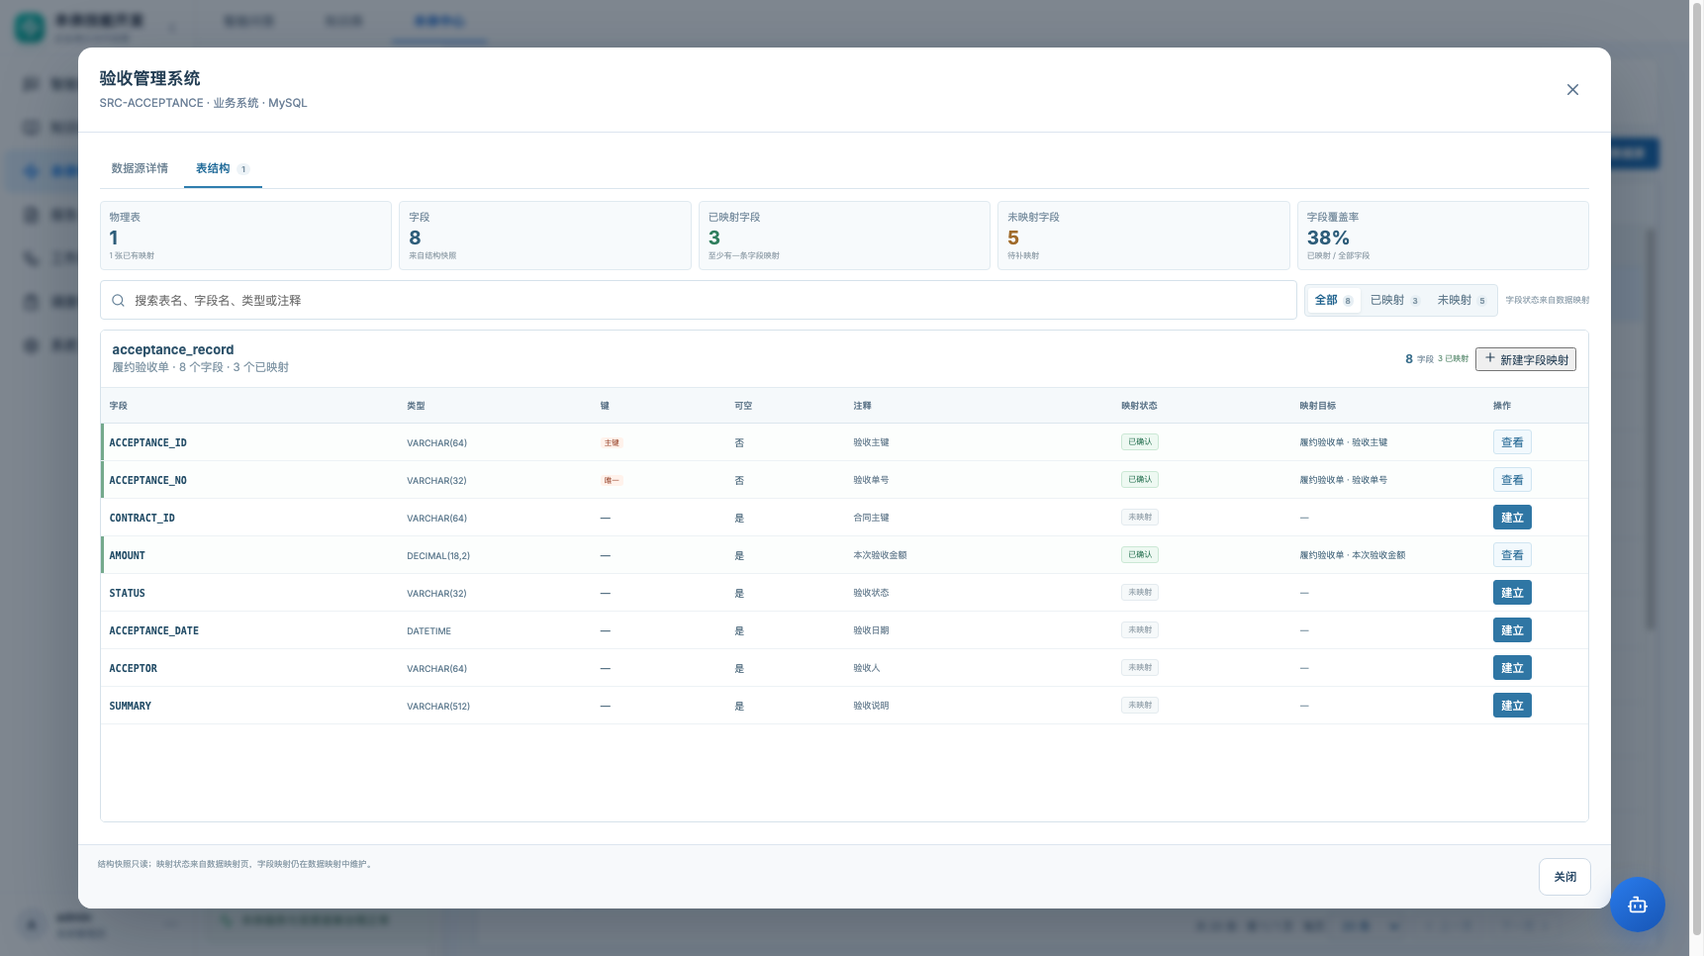
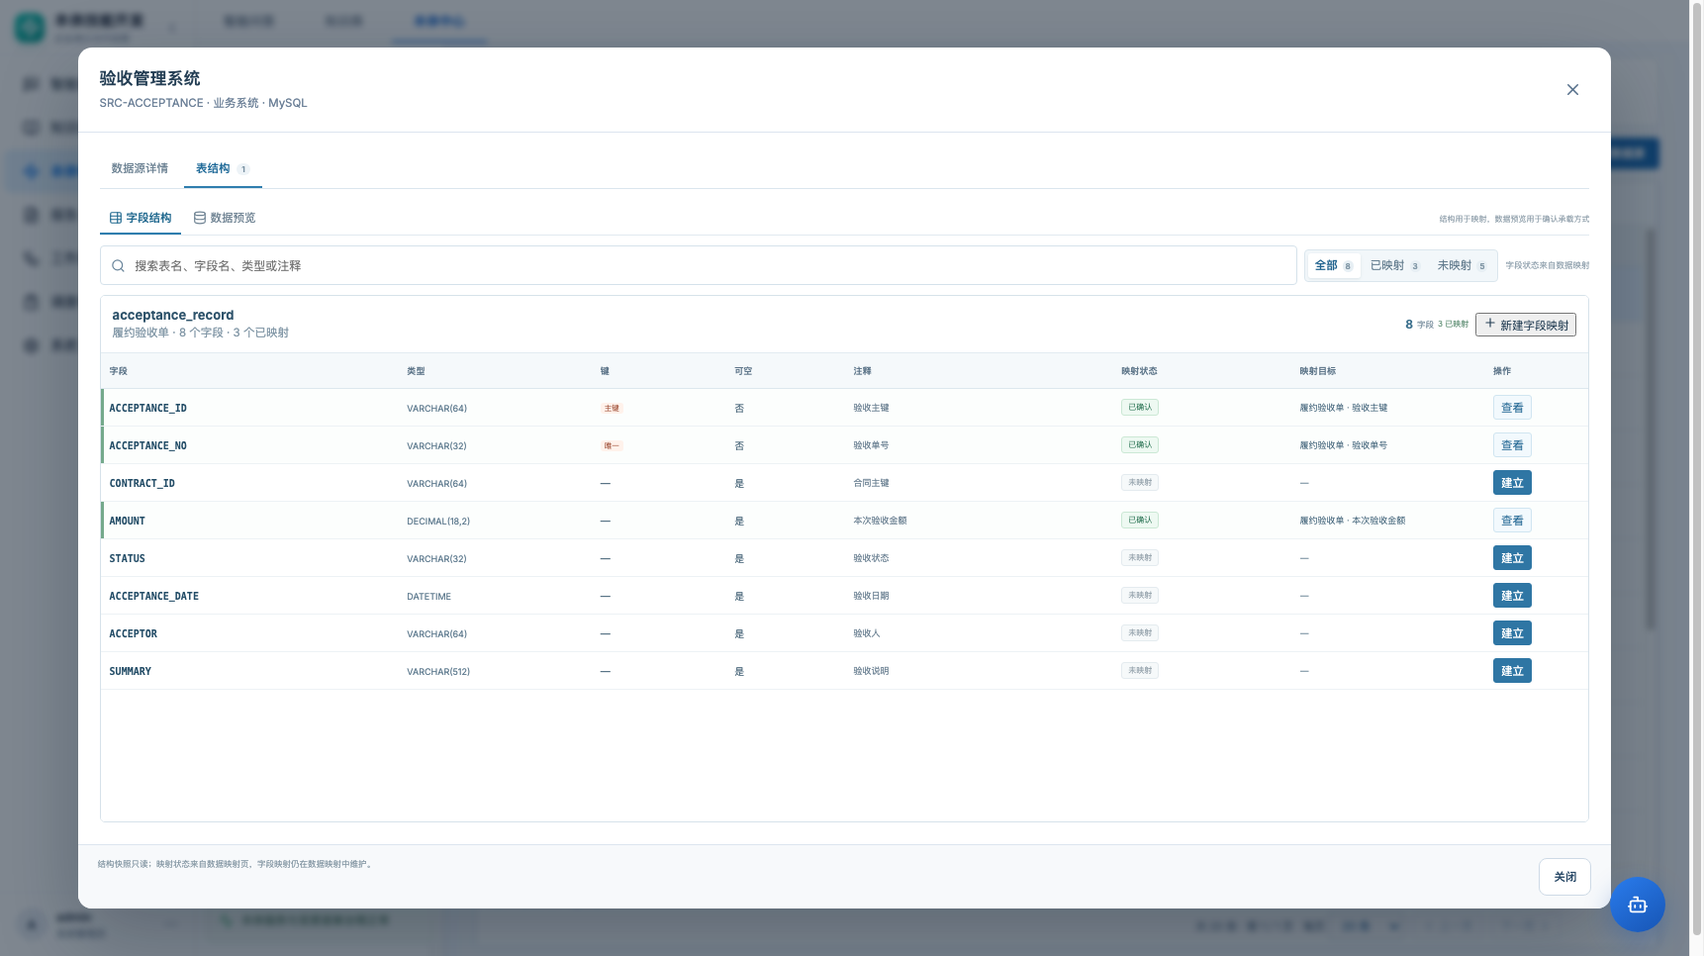
feat: add read-only table data preview and simplify schema tree

diff --git a/frontend/src/pages/DataMappingStudio.jsx b/frontend/src/pages/DataMappingStudio.jsx
@@ -1,6 +1,6 @@
 import { useEffect, useMemo, useRef, useState } from 'react';
 import { useLocation, useNavigate } from 'react-router-dom';
-import { ArrowRight, CheckCircle2, ChevronRight, Database, FileUp, HelpCircle, Network, Pencil, Plus, RefreshCw, Search, TableProperties, Trash2, X } from 'lucide-react';
+import { AlertTriangle, ArrowRight, CheckCircle2, ChevronRight, Database, FileUp, HelpCircle, LoaderCircle, Network, Pencil, Plus, RefreshCw, Search, TableProperties, Trash2, X } from 'lucide-react';
 import { api, formatTime } from '../api';
 import { statusLabel } from '../labels';
 import Modal from '../components/Modal';
@@ -87,6 +87,19 @@ function SchemaBrowser({ tables, query, onQueryChange, onPick, selectedTable = '
 }
 
 
+function SchemaDataPreview({ table, preview, busy, error, onRefresh }) {
+  const format = (value) => value === null || value === undefined || value === '' ? '—' : String(value);
+  return <div className="schema-data-view">
+    <header><div><h3>{table?.name || '数据预览'}</h3><p>只读预览 · 最多 20 行 · 用于确认表结构如何承载数据</p></div><button type="button" className="schema-data-refresh" onClick={onRefresh} disabled={busy || !table}><RefreshCw size={14} /> 刷新</button></header>
+    {busy ? <div className="schema-data-state"><LoaderCircle className="spin" size={20} /><strong>正在读取样例数据…</strong></div>
+      : error ? <div className="schema-data-state error"><AlertTriangle size={20} /><strong>暂时无法预览数据</strong><p>{error}</p><small>需要先建立可读连接并测试通过；本视图不会读取或修改业务数据。</small></div>
+        : !preview ? <div className="schema-data-state"><TableProperties size={22} /><strong>还没有预览数据</strong><p>点击刷新读取该表前 20 行。</p></div>
+          : !preview.rows?.length ? <div className="schema-data-state"><TableProperties size={22} /><strong>表里暂无数据</strong><p>结构已采集，但当前表返回 0 行。</p></div>
+            : <div className="schema-data-table-wrap"><table className="schema-data-table"><thead><tr>{preview.columns.map((column) => <th key={column}>{column}</th>)}</tr></thead><tbody>{preview.rows.map((row, index) => <tr key={index}>{row.map((value, cellIndex) => <td key={cellIndex} title={format(value)}>{format(value)}</td>)}</tr>)}</tbody></table></div>}
+    {preview && <footer className="schema-data-footnote">显示 {preview.rows?.length || 0} 行{preview.truncated ? '（已截断）' : ''} · 预览不导出、不写回；完整数据浏览后续接入独立数据查询页。</footer>}
+  </div>;
+}
+
 function SourceDetailContent({ source, tables, totalFields, mappedFields, subjectName, capturedAt, busy, remoteTables, selectedTables, setSelectedTables, onTest, onBrowse, onImport, onViewMappings, onOpenSchema, onCaptureSchema, onEdit, onDelete }) {
   const coverage = totalFields ? Math.round((mappedFields / totalFields) * 100) : 0;
   const isMysql = source.driver === 'mysql';
@@ -144,10 +157,14 @@ function SourceDetailContent({ source, tables, totalFields, mappedFields, subjec
   </div>;
 }
 
-function SourceDetailModal({ source, tables, mappings, capturedAt, getOrigin, targetLabel, propertyLabel, statusLabel, onClose, onViewMapping, onCreateMapping, tab = 'schema', onTabChange, detailContent }) {
+function SourceDetailModal({ source, tables, mappings, capturedAt, getOrigin, targetLabel, propertyLabel, statusLabel, onClose, onViewMapping, onCreateMapping, onPreview, tab = 'schema', onTabChange, detailContent }) {
   const [query, setQuery] = useState('');
   const [mappingFilter, setMappingFilter] = useState('all');
   const [selectedTable, setSelectedTable] = useState(tables[0]?.name || '');
+  const [schemaView, setSchemaView] = useState('fields');
+  const [preview, setPreview] = useState(null);
+  const [previewBusy, setPreviewBusy] = useState(false);
+  const [previewError, setPreviewError] = useState('');
   const needle = query.trim().toLowerCase();
   const mappedIndex = useMemo(() => {
     const index = new Map();
@@ -172,6 +189,20 @@ function SourceDetailModal({ source, tables, mappings, capturedAt, getOrigin, ta
     || `${table.name} ${table.comment || ''}`.toLowerCase().includes(needle)
     || (table.columns || []).some((column) => `${column.name} ${column.comment || ''} ${column.column_type || column.data_type || ''}`.toLowerCase().includes(needle))), [tableRows, needle]);
   const activeTable = visibleTables.find((table) => table.name === selectedTable) || visibleTables[0] || null;
+  const loadPreview = async (table = activeTable) => {
+    if (!table || !onPreview) return;
+    setPreviewBusy(true); setPreviewError(''); setPreview(null);
+    try { setPreview(await onPreview(source, table.name, 20)); }
+    catch (cause) { setPreviewError(cause.message); }
+    finally { setPreviewBusy(false); }
+  };
+  const chooseTable = (name) => {
+    setSelectedTable(name);
+    if (schemaView === 'data') {
+      const table = tableRows.find((item) => item.name === name);
+      if (table) loadPreview(table);
+    }
+  };
   const fields = useMemo(() => {
     if (!activeTable) return [];
     return activeTable.columns.filter((column) => {
@@ -187,19 +218,13 @@ function SourceDetailModal({ source, tables, mappings, capturedAt, getOrigin, ta
     return tables.some((table) => table.name === tableName && (table.columns || []).some((column) => column.name === fieldName));
   }).length;
   const coverage = totalFields ? Math.round((mappedFields / totalFields) * 100) : 0;
-  const mappedTables = tableRows.filter((table) => table.mapped > 0).length;
   const statusClass = (value) => value === '已确认' ? 'confirmed' : value === '已停用' ? 'disabled' : 'pending';
   const fieldEntries = (table, column) => mappedIndex.get(`${table.name}\u0000${column.name}`) || [];
   return <Modal wide={tab === 'detail'} extraWide={tab === 'schema'} title={source.name} subtitle={`${source.code} · ${source.system_type || '未分类'} · ${driverLabel(source.driver)}`} onClose={onClose} footer={<><span className="schema-modal-footnote">{tab === 'detail' ? '数据源信息来自登记与结构采集；映射状态来自数据映射页。' : '结构快照只读；映射状态来自数据映射页，字段映射仍在数据映射中维护。'}</span><button type="button" className="btn secondary" onClick={onClose}>关闭</button></>}>
     <nav className="source-modal-tabs" aria-label="数据源详情与表结构"><button type="button" className={tab === 'detail' ? 'active' : ''} onClick={() => onTabChange('detail')}>数据源详情</button><button type="button" className={tab === 'schema' ? 'active' : ''} onClick={() => onTabChange('schema')}>表结构 <em>{tables.length}</em></button></nav>
     {tab === 'detail' ? detailContent : <div className="schema-browser-modal">
-      <div className="schema-browser-stats">
-        <div><small>物理表</small><b>{tables.length}</b><span>{mappedTables} 张已有映射</span></div>
-        <div><small>字段</small><b>{totalFields}</b><span>来自结构快照</span></div>
-        <div className="good"><small>已映射字段</small><b>{mappedFields}</b><span>至少有一条字段映射</span></div>
-        <div className="warn"><small>未映射字段</small><b>{Math.max(0, totalFields - mappedFields)}</b><span>待补映射</span></div>
-        <div><small>字段覆盖率</small><b>{coverage}%</b><span>已映射 / 全部字段</span></div>
-      </div>
+      <div className="schema-view-tabs"><button type="button" className={schemaView === 'fields' ? 'active' : ''} onClick={() => setSchemaView('fields')}><TableProperties size={14} /> 字段结构</button><button type="button" className={schemaView === 'data' ? 'active' : ''} onClick={() => { setSchemaView('data'); loadPreview(activeTable); }} disabled={!activeTable}><Database size={14} /> 数据预览</button><span>结构用于映射，数据预览用于确认承载方式</span></div>
+      {schemaView === 'fields' ? <>
       <div className="schema-browser-toolbar">
         <label className="mapping-schema-search"><Search size={15} /><input value={query} onChange={(event) => setQuery(event.target.value)} placeholder="搜索表名、字段名、类型或注释" aria-label="搜索表结构" /></label>
         <div className="schema-browser-segments" role="group" aria-label="映射状态筛选">
@@ -211,12 +236,7 @@ function SourceDetailModal({ source, tables, mappings, capturedAt, getOrigin, ta
       </div>
       <div className={`schema-browser-layout ${tables.length <= 1 ? 'single-table' : ''}`}>
         <aside className="schema-table-list">
-          <header><span>物理表</span><b>{visibleTables.length}</b></header>
-          <div className="schema-table-scroll">{visibleTables.map((table) => <button type="button" key={table.name} className={activeTable?.name === table.name ? 'active' : ''} onClick={() => setSelectedTable(table.name)}>
-            <span><strong>{table.name}</strong><small>{table.comment || '暂无表注释'}</small></span>
-            <em>{table.mapped}/{table.columns.length} 已映射</em>
-            <i><b style={{ width: `${table.columns.length ? Math.max(3, (table.mapped / table.columns.length) * 100) : 0}%` }} /></i>
-          </button>)}{!visibleTables.length && <p className="schema-empty">没有匹配的物理表。</p>}</div>
+          <div className="schema-table-scroll">{visibleTables.map((table) => <button type="button" key={table.name} className={activeTable?.name === table.name ? 'active' : ''} onClick={() => chooseTable(table.name)}><TableProperties size={13} /><span className="schema-table-name">{table.name}</span></button>)}{!visibleTables.length && <p className="schema-empty">没有匹配的物理表。</p>}</div>
         </aside>
         <section className="schema-field-panel">
           {!activeTable ? <div className="schema-empty"><TableProperties size={26} /><strong>没有匹配的表结构</strong><p>调整搜索关键词或映射状态筛选。</p></div> : <>
@@ -240,6 +260,7 @@ function SourceDetailModal({ source, tables, mappings, capturedAt, getOrigin, ta
           </>}
         </section>
       </div>
+      </> : <SchemaDataPreview table={activeTable} preview={preview} busy={previewBusy} error={previewError} onRefresh={() => loadPreview(activeTable)} />}
     </div>}
   </Modal>;
 }
@@ -529,6 +550,8 @@ export default function DataMappingStudio({ activeId, refreshOntologies, notify,
     if (item.driver !== 'mysql') { notify?.('该数据源类型暂不支持直连测试，请导入 CSV/JSON/SQL 结构字典。'); return; }
     await sourceAction('test-connection', item);
   };
+  const loadTablePreview = (source, table, limit = 20) => api(`/api/ontologies/${activeId}/enterprise/data-sources/${source.id}/preview-table?table=${encodeURIComponent(table)}&limit=${limit}`);
+
   const viewMappingFromSchema = (mapping) => {
     if (!mapping) return;
     setSchemaModalOpen(false);
@@ -761,6 +784,7 @@ export default function DataMappingStudio({ activeId, refreshOntologies, notify,
       statusLabel={mappingStatusLabel}
       tab={sourceModalTab}
       onTabChange={changeSourceTab}
+      onPreview={loadTablePreview}
       detailContent={<SourceDetailContent
         source={sourceForDetail}
         tables={detailTables}

diff --git a/frontend/src/styles.css b/frontend/src/styles.css
@@ -3711,3 +3711,49 @@ html, body, #root {
   .source-structure-metrics { width:70px; }
   .source-modal-tabs { margin-top:0; }
 }
+
+/* 表结构左栏：Navicat 风格，只显示物理表名 */
+.schema-browser-layout { grid-template-columns:190px minmax(0,1fr); }
+.schema-browser-layout.single-table { grid-template-columns:minmax(0,1fr); }
+.schema-table-list { background:#f7fafc; }
+.schema-table-scroll { padding:5px; }
+.schema-table-scroll button { min-height:31px; display:grid; grid-template-columns:16px minmax(0,1fr); align-items:center; gap:5px; padding:5px 7px; color:#536d80; background:transparent; border:1px solid transparent; border-radius:4px; text-align:left; cursor:pointer; }
+.schema-table-scroll button > svg { color:#7895a8; }
+.schema-table-scroll button:hover { background:#eef7fc; }
+.schema-table-scroll button.active { color:#1e5f87; background:#e8f4fb; border-color:#c5dfed; box-shadow:inset 2px 0 #2f7eae; }
+.schema-table-scroll button.active > svg { color:#2f7eae; }
+.schema-table-name { overflow:hidden; font-size:10.5px; font-weight:500; text-overflow:ellipsis; white-space:nowrap; }
+@media (max-width:1000px) {
+  .schema-browser-layout { grid-template-columns:180px minmax(0,1fr); }
+}
+
+/* 表结构：结构 / 数据预览子视图 */
+.schema-view-tabs { display:flex; align-items:center; gap:3px; padding:2px 0 0; border-bottom:1px solid #e1eaf0; }
+.schema-view-tabs button { min-height:32px; display:inline-flex; align-items:center; gap:4px; padding:0 9px; color:#6f8393; background:transparent; border:0; border-bottom:2px solid transparent; font-size:9px; cursor:pointer; }
+.schema-view-tabs button:hover { color:#2d6d94; }
+.schema-view-tabs button.active { color:#21698f; border-bottom-color:#2f7eae; font-weight:600; }
+.schema-view-tabs button:disabled { opacity:.45; cursor:not-allowed; }
+.schema-view-tabs > span { margin-left:auto; color:#96a5b0; font-size:8px; }
+.schema-data-view { flex:1; min-height:0; display:flex; flex-direction:column; overflow:hidden; border:1px solid #d7e3ec; border-radius:5px; background:#fff; }
+.schema-data-view > header { flex:none; min-height:50px; display:flex; align-items:center; justify-content:space-between; gap:8px; padding:7px 11px; border-bottom:1px solid #e2eaf1; }
+.schema-data-view h3 { margin:0; color:#355a72; font-size:12px; }
+.schema-data-view p { margin:3px 0 0; color:#8498a7; font-size:8.5px; }
+.schema-data-refresh { min-height:27px; display:inline-flex; align-items:center; gap:4px; padding:0 7px; color:#2a6a93; background:#f4faff; border:1px solid #cfe3ef; border-radius:4px; font-size:8.5px; cursor:pointer; }
+.schema-data-refresh:disabled { opacity:.45; cursor:not-allowed; }
+.schema-data-table-wrap { flex:1; min-height:0; overflow:auto; }
+.schema-data-table { min-width:100%; border-collapse:separate; border-spacing:0; white-space:nowrap; }
+.schema-data-table th { position:sticky; top:0; z-index:1; min-width:110px; padding:7px 9px; color:#5e788a; background:#f5f9fb; border-bottom:1px solid #dce7ee; border-right:1px solid #edf2f5; font-size:8.5px; font-weight:600; text-align:left; }
+.schema-data-table td { max-width:260px; overflow:hidden; padding:7px 9px; color:#4b687c; border-bottom:1px solid #edf2f5; border-right:1px solid #f0f4f6; font-size:9px; text-overflow:ellipsis; }
+.schema-data-table tr:nth-child(even) td { background:#fcfdfe; }
+.schema-data-table tr:hover td { background:#f4fafd; }
+.schema-data-state { flex:1; display:flex; flex-direction:column; align-items:center; justify-content:center; gap:6px; min-height:220px; padding:20px; color:#899ba8; text-align:center; }
+.schema-data-state strong { color:#536f83; font-size:10px; }
+.schema-data-state p { margin:0; color:#8195a4; font-size:9px; line-height:1.5; }
+.schema-data-state small { max-width:460px; color:#9ba9b3; font-size:8px; line-height:1.5; }
+.schema-data-state.error { color:#a56c45; background:#fffcf8; }
+.schema-data-state.error strong { color:#95633e; }
+.schema-data-footnote { flex:none; padding:6px 10px; color:#8b9ca8; background:#fbfdfe; border-top:1px solid #e5edf2; font-size:8px; }
+@media (max-width:700px) {
+  .schema-view-tabs > span { display:none; }
+  .schema-data-table th { min-width:90px; }
+}

diff --git a/backend/source_connections.py b/backend/source_connections.py
@@ -11,6 +11,8 @@ import hashlib
 import json
 import os
 import re
+from datetime import date, datetime
+from decimal import Decimal
 from pathlib import Path
 from typing import Any, Dict, Optional
 
@@ -221,6 +223,49 @@ def save_snapshot(ontology_id: str, source_id: str, schema: Dict[str, Any]) -> D
     conn.close()
     return {"id": snapshot_id, "captured_at": captured_at, "table_count": len(schema["tables"]), "schema": schema}
 
+
+
+def preview_table(ontology_id: str, source_id: str, table_name: str, limit: int = 20) -> Dict[str, Any]:
+    """Read-only sample of a physical table for design-time inspection.
+
+    The table name must exist in the latest captured snapshot. The query is
+    bounded, never accepts arbitrary SQL, and never writes to the source.
+    """
+    source = _source(ontology_id, source_id)
+    snapshot = latest_snapshot(ontology_id, source_id)
+    table = next((item for item in (snapshot or {}).get("schema", {}).get("tables", [])
+                  if item.get("name") == table_name), None)
+    if not table:
+        raise repo.ValidationError("表不存在于当前结构快照中，请先刷新结构")
+    if source.get("driver") != "mysql":
+        raise repo.ValidationError("当前仅支持 MySQL 数据预览；其他来源请先接入可读数据通道")
+    if source.get("connection_check", {}).get("status") != "passed":
+        raise repo.ValidationError("请先测试连接并确保连接通过，再预览数据")
+    bounded = max(1, min(int(limit or 20), 50))
+    safe_name = table["name"].replace("`", "``")
+    try:
+        with _connect(source) as remote:
+            with remote.cursor() as cursor:
+                cursor.execute(f"SELECT * FROM `{safe_name}` LIMIT %s", (bounded + 1,))
+                rows = cursor.fetchall()
+                columns = [item[0] for item in cursor.description] if cursor.description else []
+    except repo.ValidationError:
+        raise
+    except Exception as exc:
+        raise repo.ValidationError("数据预览失败，请检查表读取权限与连接状态") from exc
+    truncated = len(rows) > bounded
+    rows = rows[:bounded]
+    def value(item):
+        if isinstance(item, (datetime, date)):
+            return item.isoformat()
+        if isinstance(item, Decimal):
+            return str(item)
+        if isinstance(item, bytes):
+            return item.decode("utf-8", errors="replace")
+        return item
+    return {"table": table["name"], "columns": columns,
+            "rows": [[value(row.get(column)) for column in columns] for row in rows],
+            "limit": bounded, "truncated": truncated, "sampled_at": repo.now()}
 
 def parse_mysql_ddl(text: str) -> Dict[str, Any]:
     """Parse a bounded CREATE TABLE subset; never execute the supplied SQL."""

diff --git a/backend/main.py b/backend/main.py
@@ -631,6 +631,11 @@ def import_source_ddl(ontology_id: str, resource_id: str, data: DdlImportRequest
     return source_connections.save_snapshot(ontology_id, resource_id, source_connections.parse_mysql_ddl(data.ddl_text))
 
 
+@app.get("/api/ontologies/{ontology_id}/enterprise/data-sources/{resource_id}/preview-table")
+def preview_source_table(ontology_id: str, resource_id: str, table: str, limit: int = 20):
+    return source_connections.preview_table(ontology_id, resource_id, table, limit)
+
+
 @app.get("/api/ontologies/{ontology_id}/enterprise/data-sources/{resource_id}/schema")
 def get_source_schema(ontology_id: str, resource_id: str):
     return source_connections.latest_snapshot(ontology_id, resource_id) or {"schema": {"tables": []}}

diff --git a/docs/prd/09-PRD-数据源数据映射与映射图谱.md b/docs/prd/09-PRD-数据源数据映射与映射图谱.md
@@ -121,17 +121,19 @@
 
 ```text
 ┌ 表结构 · 验收管理系统                         SRC-ACCEPTANCE · 1 张表 · 8 个字段 ┐
-│ [物理表] [字段] [已映射字段] [未映射字段] [覆盖率]                         │
-│ [搜索表/字段/类型/注释]                         [全部 8] [已映射 3] [未映射 5] │
-│ ┌ 物理表列表 ────────┬ 字段明细 ─────────────────────────────────────────┐ │
-│ │ acceptance_record  │ acceptance_record  8 个字段 · 3 个已映射           │ │
-│ │ 履约验收单 3/8     │ 字段 | 类型 | 键 | 可空 | 注释 | 状态 | 目标 | 操作 │ │
+│ 数据源详情 | 表结构                                                         │
+│ [字段结构] [数据预览]                    [搜索] [全部 8] [已映射 3] [未映射 5] │
+│ ┌ 物理表 ───────────┬ 字段明细 ─────────────────────────────────────────┐ │
+│ │ ⊞ acceptance_record│ acceptance_record  8 个字段 · 3 个已映射           │ │
+│ │                    │ 字段 | 类型 | 键 | 可空 | 注释 | 状态 | 目标 | 操作 │ │
 │ │                    │ ACCEPTANCE_ID ... 已确认  履约验收单·验收主键  查看 │ │
 │ │                    │ CONTRACT_ID ... 未映射  —                 建立 │ │
 │ └────────────────────┴──────────────────────────────────────────────────┘ │
 │ 结构快照只读；映射状态来自数据映射页。                                  [关闭] │
 └───────────────────────────────────────────────────────────────────────────┘
 ```
+
+表结构区不再重复放大数字统计卡；统计信息收敛到筛选标签和字段区标题。左侧物理表树只显示表名，选中当前表；单表数据源自动隐藏左栏。
 
 #### 字段与操作
 
@@ -153,6 +155,23 @@
   - 桌面使用 extra-wide（最大 1240px）；
   - 1366 宽度仍保持左右分栏；
   - 小屏表列表变为上方可滚动列表。
+
+#### 数据预览
+
+表结构右上方提供二级视图：
+
+- **字段结构**：字段、类型、键、可空、注释、映射状态、映射目标、查看/建立。
+- **数据预览**：只读展示当前表前 20 行，用于确认字段类型、空值、枚举与业务数据承载方式。
+
+设计边界：
+
+- 数据预览最多 20 行，不提供全量浏览、筛选、导出或编辑。
+- 全量数据浏览属于独立数据查询/浏览页，不塞进结构弹窗。
+- 数据预览必须建立在可读连接和连接测试通过的前提上；未连接、无权限或非 MySQL 来源显示明确空态，不伪造数据。
+- 预览请求只读，不写回源库，不改变映射。
+- 结构快照与实时数据分开：字段结构来自快照，数据预览来自当前连接。
+
+![数据源数据预览](../proto-shots/45-数据源-数据预览.png)
 
 #### 数据流转
 
@@ -360,6 +379,10 @@ GET  /api/ontologies/{id}/releases/{releaseId}/snapshot
 | M25 | 详情弹窗有“数据源详情 / 表结构”两个页签；行点击默认详情，操作列表结构默认表结构 |
 | M26 | 详情弹窗可完成测试连接、选择来源表、导入结构、查看字段映射、编辑、删除 |
 | M27 | 关闭弹窗后列表恢复全宽并清除选中态 |
+| M28 | 表结构左栏只显示物理表名，不显示中文注释、映射数量和进度条 |
+| M29 | 表结构区不重复展示独立大数字统计卡 |
+| M30 | 表结构支持字段结构 / 数据预览二级切换 |
+| M31 | 数据预览最多显示 20 行，只读、不分页、不导出；未连接时显示明确空态 |
 
 ## 10. 后续阶段
 
